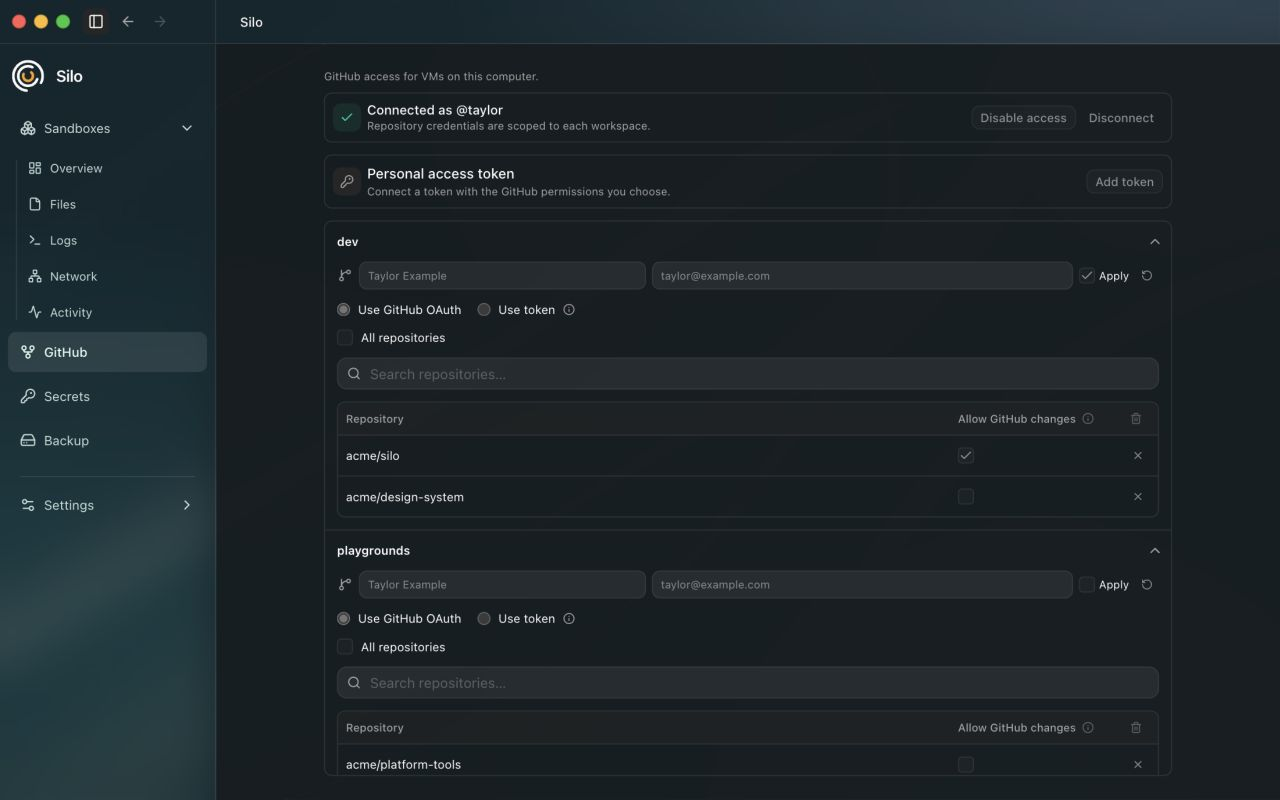
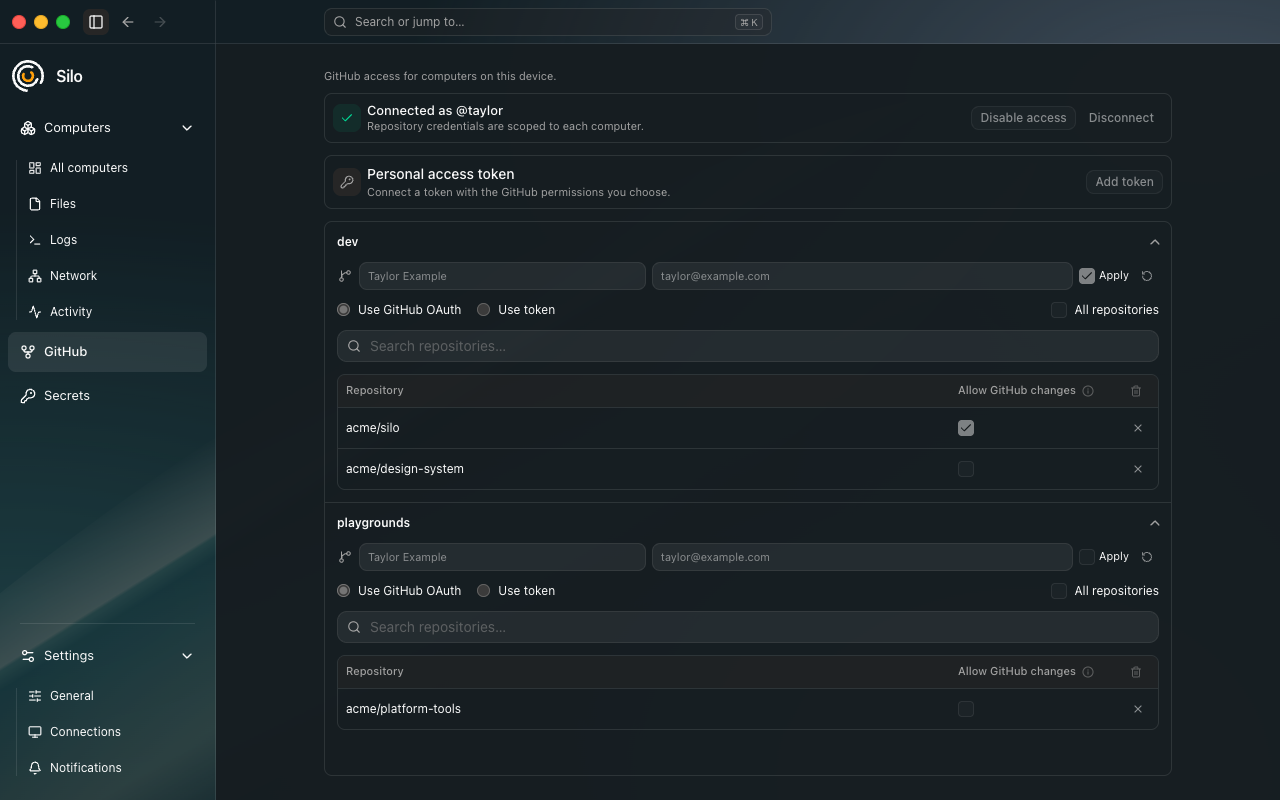
feat(website): regenerate product screenshots with a scripted capture of the demo

diff --git a/website/src/demo/read-only-demo.tsx b/website/src/demo/read-only-demo.tsx
@@ -15,6 +15,7 @@ import { SettingsProvider, createMemorySettingsStore } from '@/features/preferen
 import { ApplicationCatalogProvider } from '@/features/preferences/application-catalog';
 import { SystemIntegrationProvider } from '@/features/preferences/system-integrations-store';
 import { fixtureApplicationCatalog } from '@/fixtures/application-catalog';
+import { useBackupFixture } from '@/fixtures/application-backup';
 import { createFixtureSystemIntegrationStore } from '@/fixtures/system-integrations';
 import { demoActions, demoSource, readOnlyOperation } from './data';
 
@@ -46,10 +47,15 @@ function DemoPages() {
   }).filter(command => command.group !== 'Actions');
   const [directoryStore] = useState(() => createDirectoryStore(demoActions.listComputerDirectory));
   const overview = navigation.tab === 'computers' && navigation.computerSection === 'overview';
+  // Screenshot capture only (scripts/capture-media.mjs): shows the export entry the read-only demo omits.
+  const [exportCapture] = useState(() => new URLSearchParams(location.search).get('capture') === 'export');
+  const backup = useBackupFixture({ source: demoSource });
   let page: ReactNode;
   if (navigation.tab === 'computers') {
     page = navigation.computerSection === 'overview'
-      ? <OverviewPage readOnly source={demoSource} actions={demoActions} onConfigurationsChange={readOnlyOperation} />
+      ? exportCapture
+        ? <OverviewPage source={demoSource} actions={demoActions} onConfigurationsChange={readOnlyOperation} backup={backup} onExportComputer={readOnlyOperation} onImportComputer={readOnlyOperation} />
+        : <OverviewPage readOnly source={demoSource} actions={demoActions} onConfigurationsChange={readOnlyOperation} />
       : <ComputersPage
           source={demoSource}
           section={navigation.computerSection} onSectionChange={navigation.selectComputerSection}

diff --git a/website/README.md b/website/README.md
@@ -57,7 +57,12 @@ variables, account, cookies, or analytics are required by the site.
   the production glass UI with the read-only demo fixtures. Unsuffixed PNGs are
   light; `-dark.png` variants are dark. Workflow captures are 1280 × 720;
   GitHub, secrets, and backup captures are 1280 × 800. `overview.png` supplies
-  the computers screenshot. `silo-tour.mp4` is the 59-second, 1920 × 1080 release
+  the computers screenshot. Regenerate the pairs with the dev server running
+  (`npm --prefix website run dev`) and `node website/scripts/capture-media.mjs
+  [name…]`, which drives Google Chrome headless against `demo.html` and paints
+  the landing-page gradient behind the transparent embed. The export screenshot
+  uses `demo.html?capture=export`, which shows the export entry the read-only
+  demo otherwise omits. `silo-tour.mp4` is the 59-second, 1920 × 1080 release
   film, rendered at 30 fps from `demo/src/release-film.tsx`; `silo-tour.png` is its
   matching poster. The film includes agent desktop use, local and remote
   computers, familiar tools, SSH and an agent connection, repository access,
